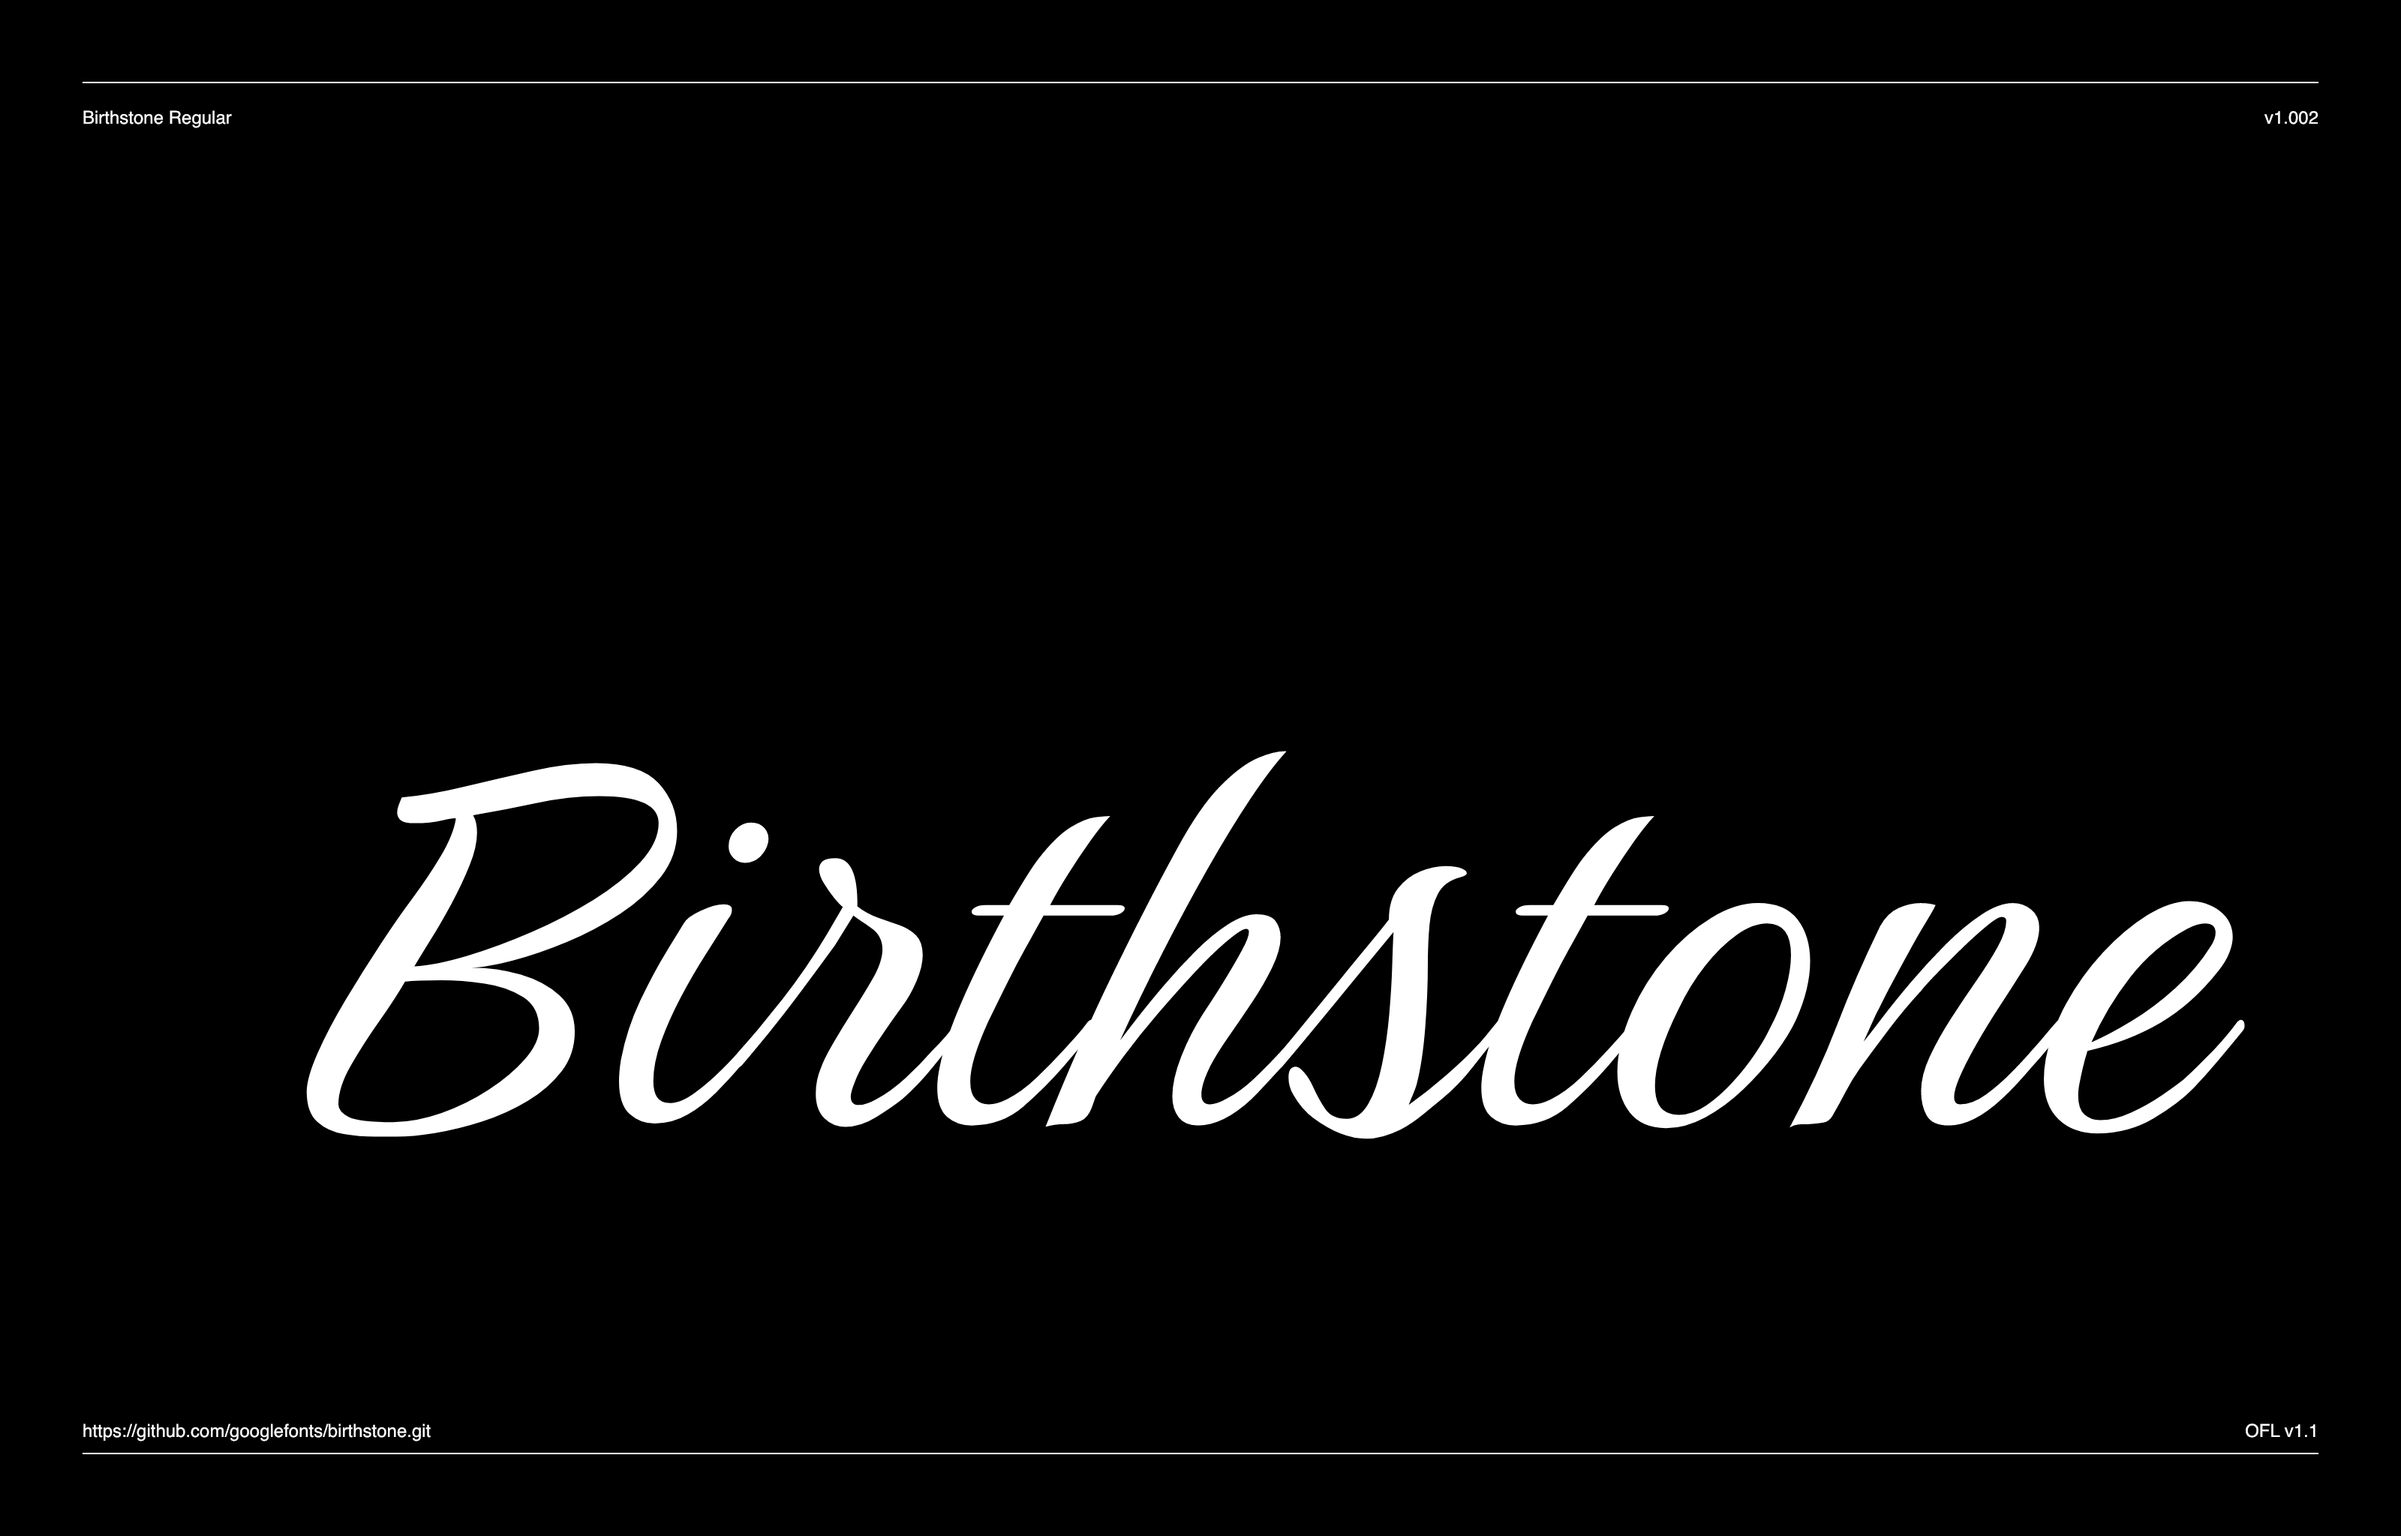
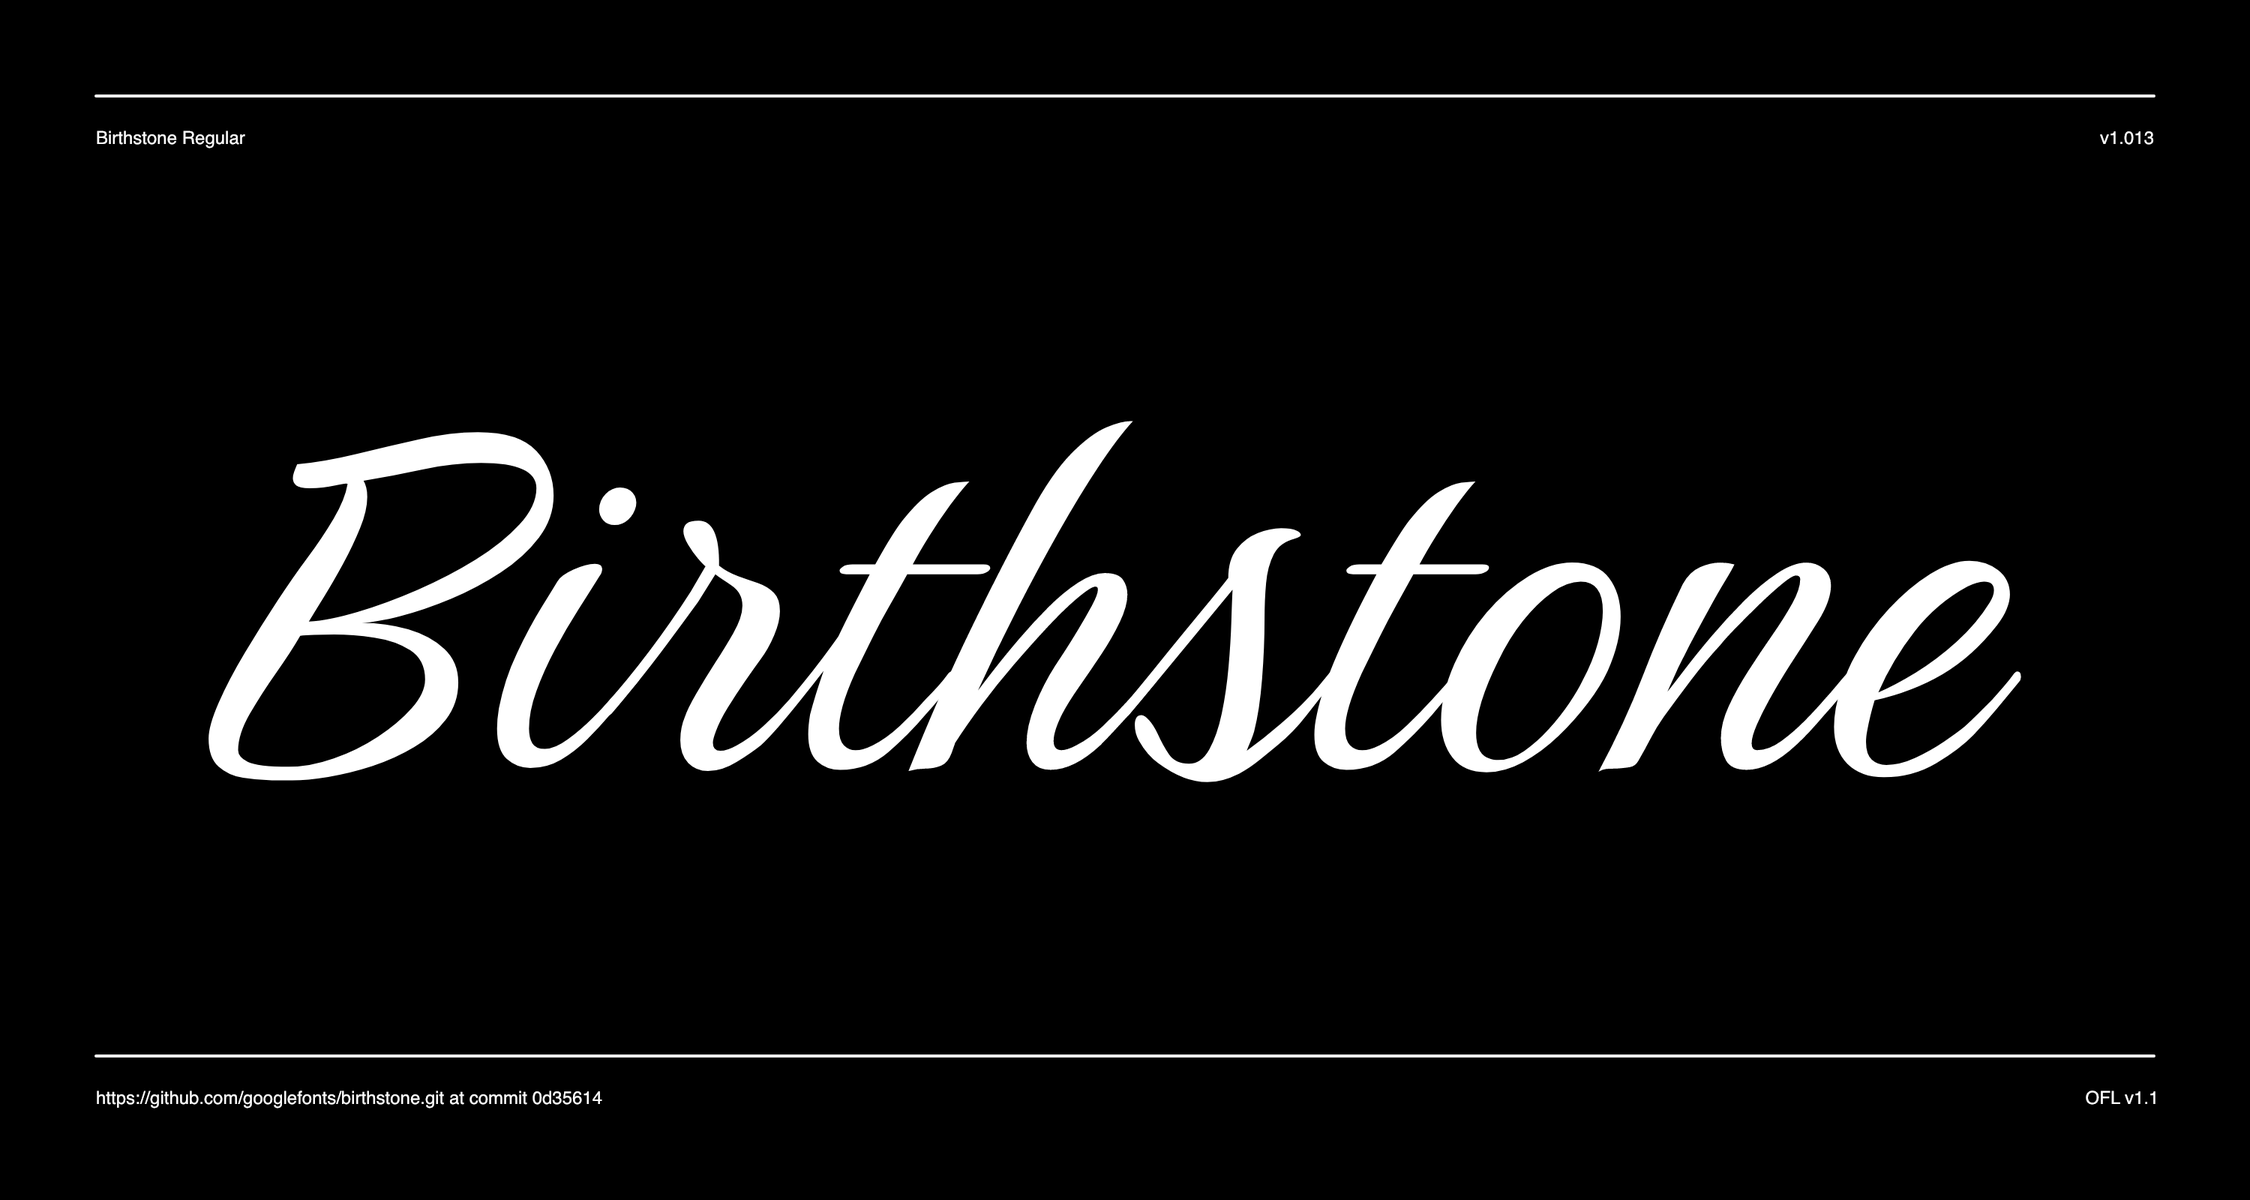
sample image updated

diff --git a/Documentation/image1.py b/Documentation/image1.py
@@ -1,0 +1,135 @@
+# This script is meant to be run from the root level
+# of your font's git repository. For example, from a Unix terminal:
+# $ git clone my-font
+# $ cd my-font
+# $ python3 documentation/image1.py --output documentation/image1.png
+
+# Import moduels from external python packages: https://pypi.org/
+from drawbot_skia.drawbot import *
+from fontTools.ttLib import TTFont
+from fontTools.misc.fixedTools import floatToFixedToStr
+
+# Import moduels from the Python Standard Library: https://docs.python.org/3/library/
+import subprocess
+import sys
+import argparse
+
+# Constants, these are the main "settings" for the image
+WIDTH, HEIGHT, MARGIN, FRAMES = 3000, 1600, 128, 1
+FONT_PATH = "../fonts/ttf/Birthstone-Regular.ttf"
+FONT_LICENSE = "OFL v1.1"
+AUXILIARY_FONT = "Helvetica"
+AUXILIARY_FONT_SIZE = 24
+BIG_TEXT = "Birthstone"
+BIG_TEXT_FONT_SIZE = 820
+BIG_TEXT_SIDE_MARGIN = MARGIN * 2
+BIG_TEXT_BOTTOM_MARGIN = MARGIN * 4.5
+GRID_VIEW = False # Change this to "True" for a grid overlay
+
+# Handel the "--output" flag
+# For example: $ python3 documentation/image1.py --output documentation/image1.png
+parser = argparse.ArgumentParser()
+parser.add_argument("--output", metavar="PNG", help="where to write the PNG file")
+args = parser.parse_args()
+
+# Load the font with the parts of fonttools that are imported with the line:
+# from fontTools.ttLib import TTFont
+# Docs Link: https://fonttools.readthedocs.io/en/latest/ttLib/ttFont.html
+ttFont = TTFont(FONT_PATH)
+
+# Constants that are worked out dynamically
+MY_URL = subprocess.check_output("git remote get-url origin", shell=True).decode()
+MY_HASH = subprocess.check_output("git rev-parse --short HEAD", shell=True).decode()
+FONT_NAME = ttFont["name"].getDebugName(4)
+FONT_VERSION = "v%s" % floatToFixedToStr(ttFont["head"].fontRevision, 16)
+
+
+# Draws a grid
+def grid():
+    stroke(1, 0, 0, 0.75)
+    strokeWidth(2)
+    STEP_X, STEP_Y = 0, 0
+    INCREMENT_X, INCREMENT_Y = MARGIN / 2, MARGIN / 2
+    rect(MARGIN, MARGIN, WIDTH - (MARGIN * 2), HEIGHT - (MARGIN * 2))
+    for x in range(29):
+        polygon((MARGIN + STEP_X, MARGIN), (MARGIN + STEP_X, HEIGHT - MARGIN))
+        STEP_X += INCREMENT_X
+    for y in range(29):
+        polygon((MARGIN, MARGIN + STEP_Y), (WIDTH - MARGIN, MARGIN + STEP_Y))
+        STEP_Y += INCREMENT_Y
+    polygon((WIDTH / 2, 0), (WIDTH / 2, HEIGHT))
+    polygon((0, HEIGHT / 2), (WIDTH, HEIGHT / 2))
+
+
+# Remap input range to VF axis range
+# This is useful for animation
+# (E.g. sinewave(-1,1) to wght(100,900))
+def remap(value, inputMin, inputMax, outputMin, outputMax):
+    inputSpan = inputMax - inputMin  # FIND INPUT RANGE SPAN
+    outputSpan = outputMax - outputMin  # FIND OUTPUT RANGE SPAN
+    valueScaled = float(value - inputMin) / float(inputSpan)
+    return outputMin + (valueScaled * outputSpan)
+
+
+# Draw the page/frame and a grid if "GRID_VIEW" is set to "True"
+def draw_background():
+    newPage(WIDTH, HEIGHT)
+    fill(0)
+    rect(-2, -2, WIDTH + 2, HEIGHT + 2)
+    if GRID_VIEW:
+        grid()
+    else:
+        pass
+
+
+# Draw main text
+def draw_main_text():
+    fill(1)
+    stroke(None)
+    font(FONT_PATH)
+    fontSize(BIG_TEXT_FONT_SIZE)
+    # Adjust this line to center main text manually.
+    # TODO: This should be done automatically when drawbot-skia
+    # has support for textBox() and FormattedString
+    #text(BIG_TEXT, ((WIDTH / 2) - MARGIN * 4.75, (HEIGHT / 2) - MARGIN * 2.5))
+    text(BIG_TEXT, (BIG_TEXT_SIDE_MARGIN, BIG_TEXT_BOTTOM_MARGIN))
+
+
+# Divider lines
+def draw_divider_lines():
+    stroke(1)
+    strokeWidth(4)
+    lineCap("round")
+    line((MARGIN, HEIGHT - MARGIN), (WIDTH - MARGIN, HEIGHT - MARGIN))
+    line((MARGIN, MARGIN + (MARGIN / 2)), (WIDTH - MARGIN, MARGIN + (MARGIN / 2)))
+    stroke(None)
+
+
+# Draw text describing the font and it's git status & repo URL
+def draw_auxiliary_text():
+    # Setup
+    font(AUXILIARY_FONT)
+    fontSize(AUXILIARY_FONT_SIZE)
+    POS_TOP_LEFT = (MARGIN, HEIGHT - MARGIN * 1.5)
+    POS_TOP_RIGHT = (WIDTH - MARGIN, HEIGHT - MARGIN * 1.5)
+    POS_BOTTOM_LEFT = (MARGIN, MARGIN)
+    POS_BOTTOM_RIGHT = (WIDTH - MARGIN * 0.95, MARGIN)
+    URL_AND_HASH = MY_URL + "at commit " + MY_HASH
+    URL_AND_HASH = URL_AND_HASH.replace("\n", " ")
+    # Draw Text
+    text(FONT_NAME, POS_TOP_LEFT, align="left")
+    text(FONT_VERSION, POS_TOP_RIGHT, align="right")
+    text(URL_AND_HASH, POS_BOTTOM_LEFT, align="left")
+    text(FONT_LICENSE, POS_BOTTOM_RIGHT, align="right")
+
+
+# Build and save the image
+if __name__ == "__main__":
+    draw_background()
+    draw_main_text()
+    draw_divider_lines()
+    draw_auxiliary_text()
+    # Save output, using the "--output" flag location
+    saveImage(args.output)
+    # Print done in the terminal
+    print("DrawBot: Done")
